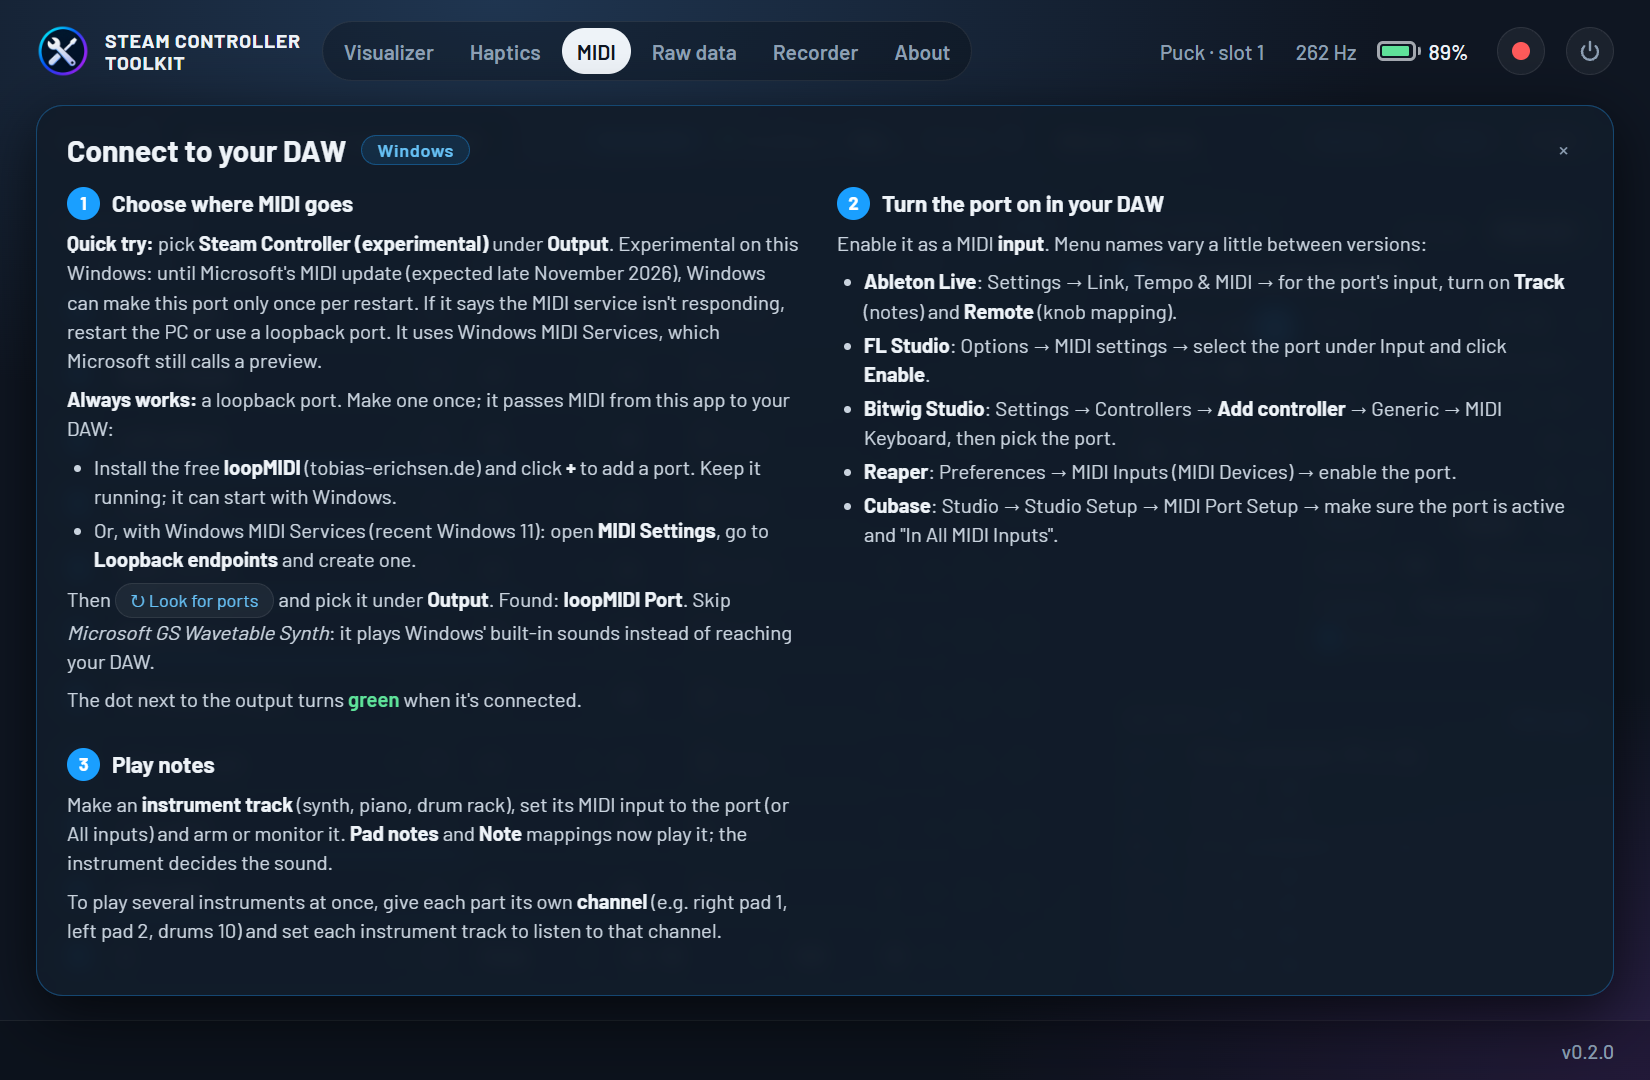
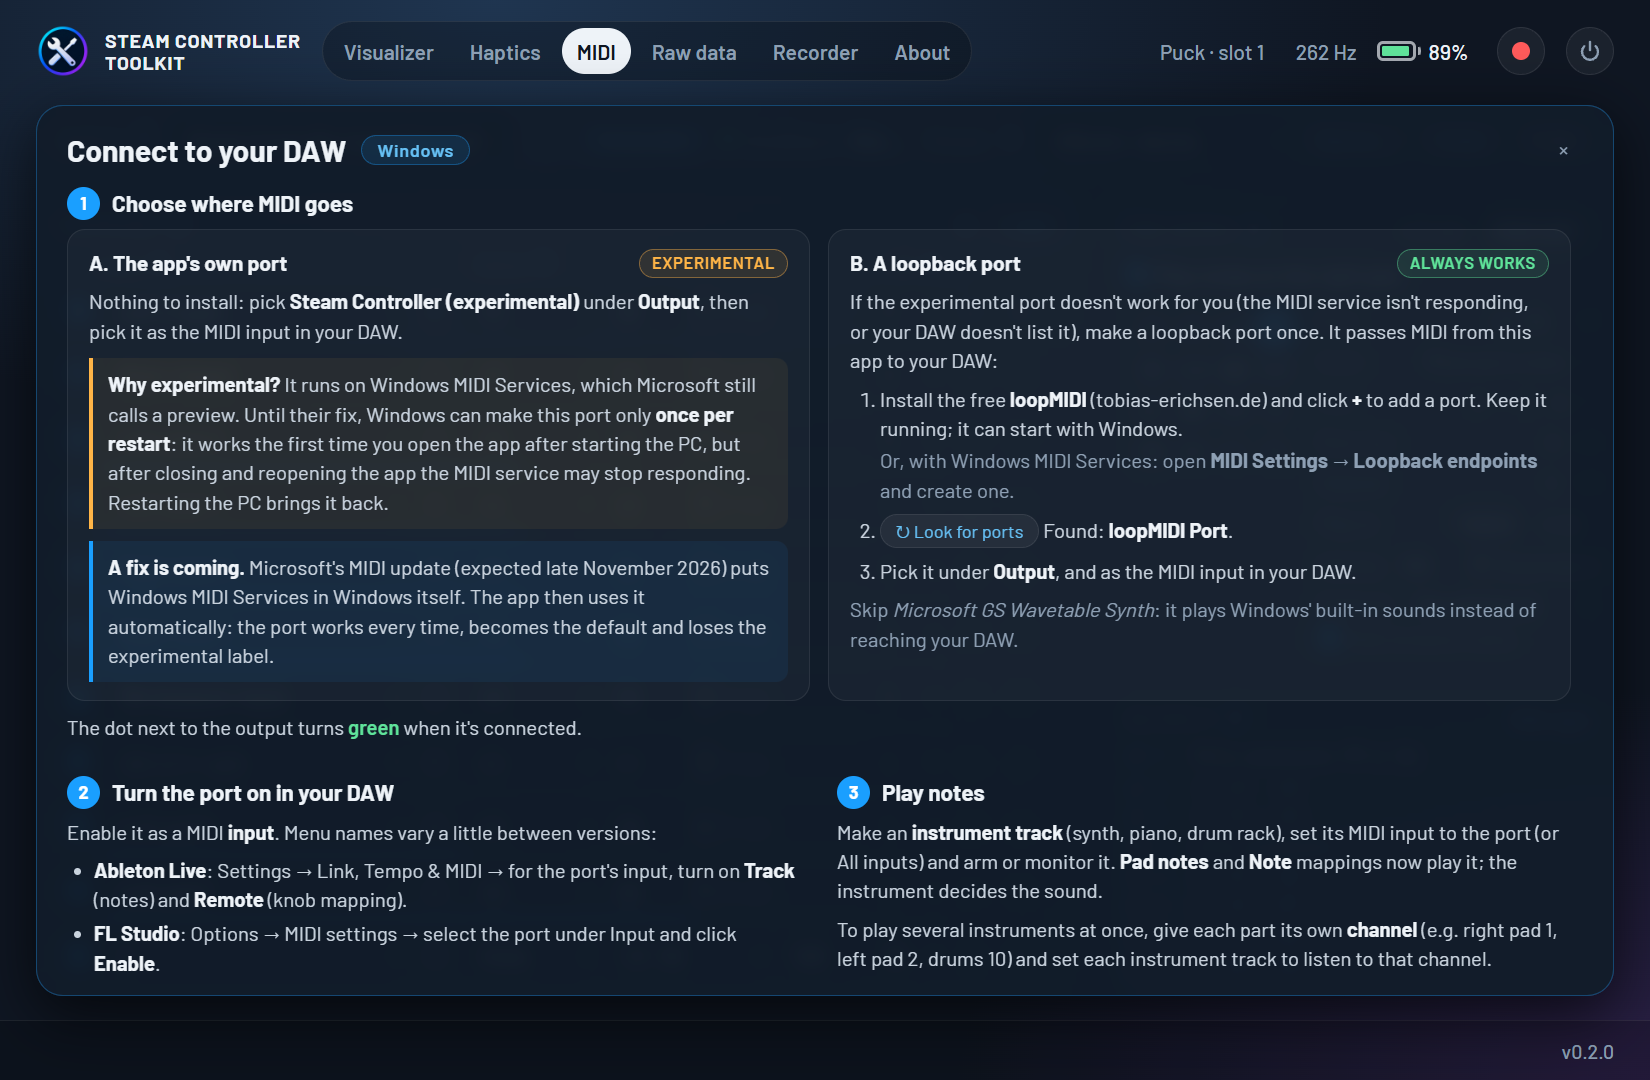
MIDI Setup guide: explain the experimental Windows port and the loopback fallback
On Windows, step 1 now shows the app's own port and a loopback port side by
side: why the port is experimental (once per restart on today's MIDI service),
the fix coming with Microsoft's MIDI update, and loopMIDI steps for when the
experimental port doesn't work. README, CHANGELOG and the guide screenshot
follow.

Changed region(s): [[0.0309, 0.1528, 0.9582, 0.9167]]

diff --git a/src/tabs/midi.ts b/src/tabs/midi.ts
@@ -219,16 +219,41 @@ function portStep(v: VirtualSupport, ports: string[]): string {
       itself with Windows MIDI Services, so there's nothing to install; it goes away when the app closes.</p>`;
   }
   const loopback = ports.filter((p) => !/wavetable|microsoft gs/i.test(p));
-  return `${v.experimental
-      ? `<p><b>Quick try:</b> pick <b>Steam Controller (experimental)</b> under <b>Output</b>. ${EXPERIMENTAL}</p>
-         <p><b>Always works:</b> a loopback port. Make one once; it passes MIDI from this app to your DAW:</p>`
-      : `<p>This PC can't give the app its own MIDI port${v.note ? ` (${escape(v.note.replace(/\.$/, ""))})` : ""},
-         so make a <b>loopback port</b> once. It passes MIDI from this app to your DAW:</p>`}
-    <ul><li>Install the free <b>loopMIDI</b> (tobias-erichsen.de) and click <b>+</b> to add a port. Keep it running; it can start with Windows.</li>
-    <li>Or, with Windows MIDI Services (recent Windows 11): open <b>MIDI Settings</b>, go to <b>Loopback endpoints</b> and create one.</li></ul>
-    <p>Then <button class="mini" data-guide-refresh>↻ Look for ports</button> and pick it under <b>Output</b>.
-    ${loopback.length ? `Found: <b>${loopback.map(escape).join("</b>, <b>")}</b>.` : `<span class="warn-text">No loopback port found yet.</span>`}
-    Skip <i>Microsoft GS Wavetable Synth</i>: it plays Windows' built-in sounds instead of reaching your DAW.</p>`;
+  const loopbackSteps = `<ol class="port-steps">
+      <li>Install the free <b>loopMIDI</b> (tobias-erichsen.de) and click <b>+</b> to add a port. Keep it running; it can start with Windows.
+        <span class="muted">Or, with Windows MIDI Services: open <b>MIDI Settings</b> → <b>Loopback endpoints</b> and create one.</span></li>
+      <li><button class="mini" data-guide-refresh>↻ Look for ports</button>
+        ${loopback.length ? `Found: <b>${loopback.map(escape).join("</b>, <b>")}</b>.` : `<span class="warn-text">No loopback port found yet.</span>`}</li>
+      <li>Pick it under <b>Output</b>, and as the MIDI input in your DAW.</li>
+    </ol>
+    <p class="muted">Skip <i>Microsoft GS Wavetable Synth</i>: it plays Windows' built-in sounds instead of reaching your DAW.</p>`;
+  if (!v.experimental) {
+    return `<p>This PC can't give the app its own MIDI port${v.note ? ` (${escape(v.note.replace(/\.$/, ""))})` : ""},
+      so make a <b>loopback port</b> once. It passes MIDI from this app to your DAW:</p>${loopbackSteps}`;
+  }
+  return `<div class="port-options">
+      <div class="port-option">
+        <div class="port-option-head"><b>A. The app's own port</b><span class="badge exp">Experimental</span></div>
+        <p>Nothing to install: pick <b>Steam Controller (experimental)</b> under <b>Output</b>, then pick it as the MIDI
+          input in your DAW.</p>
+        <div class="callout">
+          <b>Why experimental?</b> It runs on Windows MIDI Services, which Microsoft still calls a preview. Until their fix,
+          Windows can make this port only <b>once per restart</b>: it works the first time you open the app after starting
+          the PC, but after closing and reopening the app the MIDI service may stop responding. Restarting the PC brings it back.
+        </div>
+        <div class="callout fix">
+          <b>A fix is coming.</b> Microsoft's MIDI update (expected late November 2026) puts Windows MIDI Services in Windows
+          itself. The app then uses it automatically: the port works every time, becomes the default and loses the
+          experimental label.
+        </div>
+      </div>
+      <div class="port-option">
+        <div class="port-option-head"><b>B. A loopback port</b><span class="badge sure">Always works</span></div>
+        <p>If the experimental port doesn't work for you (the MIDI service isn't responding, or your DAW doesn't list
+          it), make a loopback port once. It passes MIDI from this app to your DAW:</p>
+        ${loopbackSteps}
+      </div>
+    </div>`;
 }
 
 /** Problems worth a line, per system. */
@@ -250,7 +275,7 @@ function guideHtml(v: VirtualSupport, ports: string[]): string {
       <button class="icon-btn" data-guide-close title="Close" aria-label="Close">×</button>
     </div>
     <div class="guide-steps">
-      <section><h4><i>1</i>Choose where MIDI goes</h4>${portStep(v, ports)}
+      <section${OS === "windows" && v.experimental ? ` class="wide"` : ""}><h4><i>1</i>Choose where MIDI goes</h4>${portStep(v, ports)}
         <p>The dot next to the output turns <span class="ok-text">green</span> when it's connected.</p></section>
       <section><h4><i>2</i>Turn the port on in your DAW</h4>
         <p>Enable it as a MIDI <b>input</b>. Menu names vary a little between versions:</p>

diff --git a/src/styles.css b/src/styles.css
@@ -629,6 +629,21 @@ select.field.edited { border-color: #ffb54788; }
 .guide-steps ul { margin: 0 0 6px; padding-left: 18px; color: #c9d3de; }
 .guide-steps li { margin-bottom: 3px; }
 .guide-steps b { color: var(--text); }
+.guide-steps .muted, .guide-steps .muted b { color: var(--muted); }
+.guide-steps section.wide { grid-column: 1 / -1; }
+.guide-steps section.wide + section { grid-row: auto; }
+/* Windows step 1: the experimental port and the loopback fallback side by side. */
+.port-options { display: grid; grid-template-columns: repeat(2, minmax(0, 1fr)); gap: 12px; margin-bottom: 8px; }
+.port-option { padding: 12px 14px; border: 1px solid #ffffff14; border-radius: 12px; background: #ffffff08; }
+.port-option-head { display: flex; align-items: center; justify-content: space-between; gap: 8px; margin-bottom: 6px; font-size: 14px; }
+.badge { flex: none; padding: 1px 8px; border-radius: 999px; font-size: 11px; font-weight: 600; letter-spacing: 0.04em; text-transform: uppercase; }
+.badge.exp { border: 1px solid #ffb54766; background: #ffb5471a; color: var(--warm); }
+.badge.sure { border: 1px solid #5fe39a66; background: #5fe39a1a; color: var(--ok); }
+.callout { margin: 8px 0 0; padding: 8px 10px; border-left: 3px solid var(--warm); border-radius: 0 8px 8px 0; background: #ffb5470f; color: #c9d3de; }
+.callout.fix { border-left-color: var(--accent); background: #1a9fff14; }
+.port-steps { margin: 0 0 6px; padding-left: 20px; color: #c9d3de; }
+.port-steps li { margin-bottom: 6px; }
+.port-steps li .muted { display: block; margin-top: 2px; }
 .ok-text { color: var(--ok); font-weight: 600; }
 .warn-text { color: var(--warm); font-weight: 600; }
 .midi .hint a, .help-tip a { color: var(--accent-2); cursor: pointer; }

diff --git a/README.md b/README.md
@@ -81,11 +81,13 @@ output; pick it as a MIDI input in your DAW and you're done.
 - **Windows**: needs Windows 11 25H2 or later and uses
   [Windows MIDI Services](https://github.com/microsoft/MIDI), which Microsoft still calls a
   **preview**. Until its update (expected late November 2026), Windows makes the port only once
-  per restart, so the MIDI tab offers it as **Steam Controller (experimental)**; it becomes a
-  normal port by itself once Windows has the update. What always works is a loopback port:
-  create one with the free [loopMIDI](https://www.tobias-erichsen.de/software/loopmidi.html)
-  (or Windows MIDI Services' *Loopback endpoints*), pick it as the output in the MIDI tab, and as
-  an input in your DAW.
+  per restart: it works the first time you open the app after starting the PC, but after
+  reopening the app the MIDI service may stop responding until you restart the PC. So the MIDI
+  tab offers it as **Steam Controller (experimental)**; it becomes a normal, default port by
+  itself once Windows has the update. If the experimental port doesn't work for you, use a
+  loopback port, which always works: create one with the free
+  [loopMIDI](https://www.tobias-erichsen.de/software/loopmidi.html) (or Windows MIDI Services'
+  *Loopback endpoints*), pick it as the output in the MIDI tab, and as an input in your DAW.
 
 ![MIDI Setup guide on Windows: choosing a port, turning it on in each DAW, playing notes](docs/screenshots/midi-guide.png)
 

diff --git a/CHANGELOG.md b/CHANGELOG.md
@@ -5,6 +5,13 @@ All notable changes to Steam Controller Toolkit. The app follows
 version (0.2.0) and fixes bump the patch version (0.2.1). See
 [Releasing](README.md#releasing) for how to make a version.
 
+## [Unreleased]
+
+### Changed
+
+- MIDI Setup guide on Windows: the experimental port and a loopback port side by side, with why
+  the port is experimental, the fix in Microsoft's MIDI update, and what to do if it doesn't work.
+
 ## [0.2.0] - 2026-10-18
 
 ### Added
